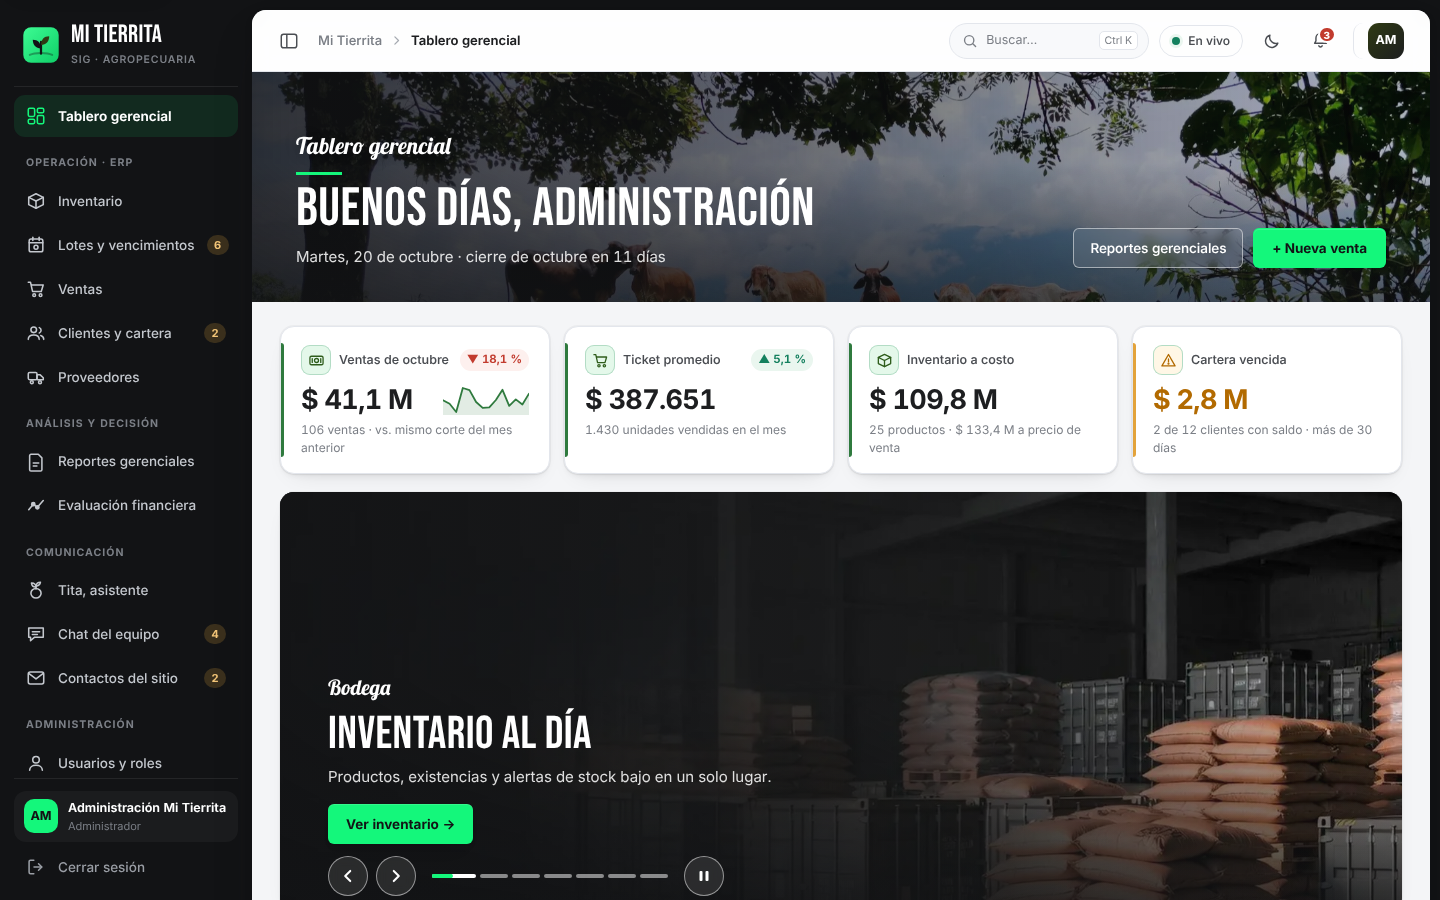
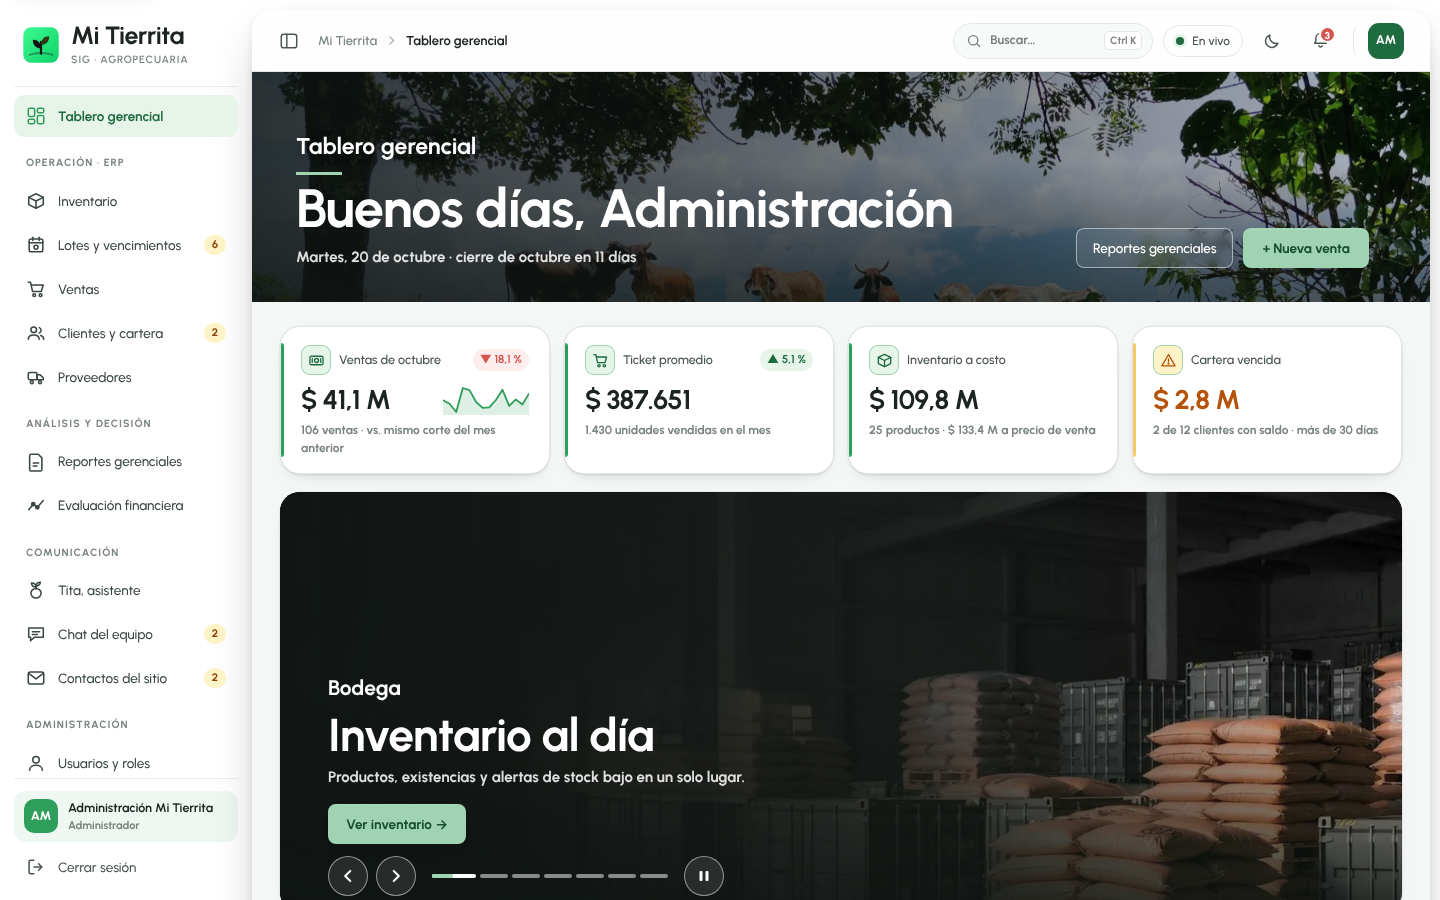
PDF de reportes y documentación en verde pastel; captura nueva del tablero

diff --git a/src/business-logic/exports/pdf-theme.ts b/src/business-logic/exports/pdf-theme.ts
@@ -1,7 +1,7 @@
 import PDFDocument from "pdfkit";
 
 /**
- * Plantilla PDF «Campo abierto» para los reportes gerenciales (v4.4).
+ * Plantilla PDF «Verde pastel» para los reportes gerenciales (v4.4).
  *
  * Es la única fuente de estilo y de componentes de los PDF: encabezado institucional con franja de
  * metadatos, resumen ejecutivo, tarjetas de indicadores, gráficos vectoriales (barras, barras
@@ -14,22 +14,22 @@ import PDFDocument from "pdfkit";
  * cero real («0» o «$ 0»), dato no disponible («N/D») y campo que no aplica («N/A»).
  */
 export const C = {
-  black: "#121315",
-  ink: "#1D1E20",
-  ink2: "#4A4D52",
-  muted: "#7B7F86",
-  line: "#E3E6EC",
-  zebra: "#F4F5F7",
-  panel: "#F7F8FA",
-  shadow: "#ECEEF2",
-  lime: "#14F77B",
-  olive: "#2F3A13",
-  green: "#2F7A3E",
-  greenSoft: "#EEF5EC",
+  black: "#1D6B3E",
+  ink: "#1C2420",
+  ink2: "#4B5650",
+  muted: "#7A847E",
+  line: "#E1E9E4",
+  zebra: "#F4F7F5",
+  panel: "#F8FAF9",
+  shadow: "#EAF0EC",
+  lime: "#9FD3B2",
+  olive: "#1D6B3E",
+  green: "#2F9E5B",
+  greenSoft: "#E6F4EA",
   harvest: "#E3A33B",
-  bad: "#C23B2E",
+  bad: "#D4554F",
   sky: "#3A7CA5",
-  chart: ["#2F7A3E", "#E3A33B", "#3A7CA5", "#C0612B", "#2F3A13", "#8AA65A"],
+  chart: ["#2F9E5B", "#E3A33B", "#3A7CA5", "#D4554F", "#1D6B3E", "#9FD3B2"],
 } as const;
 
 export type Doc = PDFKit.PDFDocument;
@@ -37,10 +37,10 @@ export type Generator = { name: string; username: string };
 export type Tone = "neutral" | "good" | "warn" | "bad";
 
 const TONE: Record<Tone, { solid: string; bg: string; fg: string }> = {
-  neutral: { solid: C.olive, bg: "#ECEEF1", fg: "#4A4D52" },
-  good: { solid: C.green, bg: "#E3F1E5", fg: "#1F5F2D" },
+  neutral: { solid: C.olive, bg: "#EAF0EC", fg: "#4B5650" },
+  good: { solid: C.green, bg: "#E6F4EA", fg: "#175A33" },
   warn: { solid: C.harvest, bg: "#FBEFD5", fg: "#8A5A0B" },
-  bad: { solid: C.bad, bg: "#F8E0DD", fg: "#9B2C22" },
+  bad: { solid: C.bad, bg: "#FBE0DE", fg: "#A63A35" },
 };
 
 // ------------------------------------------------------------------ formatos

diff --git a/CLAUDE.md b/CLAUDE.md
@@ -50,7 +50,7 @@ No inventar endpoints ni tablas que no estén ahí sin dejarlo escrito en el REA
 
 ## Reportes (v4.2)
 
-15. Los PDF y Excel se arman en `business-logic/exports/` con `pdf-theme.ts` (colores «Campo abierto», encabezado
+15. Los PDF y Excel se arman en `business-logic/exports/` con `pdf-theme.ts` (colores «Verde pastel», encabezado
     con «Generado por», gráficos vectoriales, tabla y pie «Página n de N»). Un reporte nuevo reutiliza esos
     helpers y su controlador pasa por `send()` para quedar auditado; nunca generar el PDF en el navegador.
 16. **Chat v4.5**: cada mensaje tiene recibos por persona (`message_receipts`); el autor es el único que ve el detalle

diff --git a/README.md b/README.md
@@ -22,7 +22,7 @@ cartera, proveedores, usuarios y roles, auditoría, reportes gerenciales y el mo
 ampliación del local. Lo consume la aplicación web
 [`mi-tierrita-app`](https://github.com/kariredondos2002/mi-tierrita-app).
 
-![Tablero gerencial de la aplicación](docs/capturas/02-tablero.png?v=20261020)
+![Tablero gerencial de la aplicación](docs/capturas/02-tablero.png?v=20261021)
 
 ---
 
